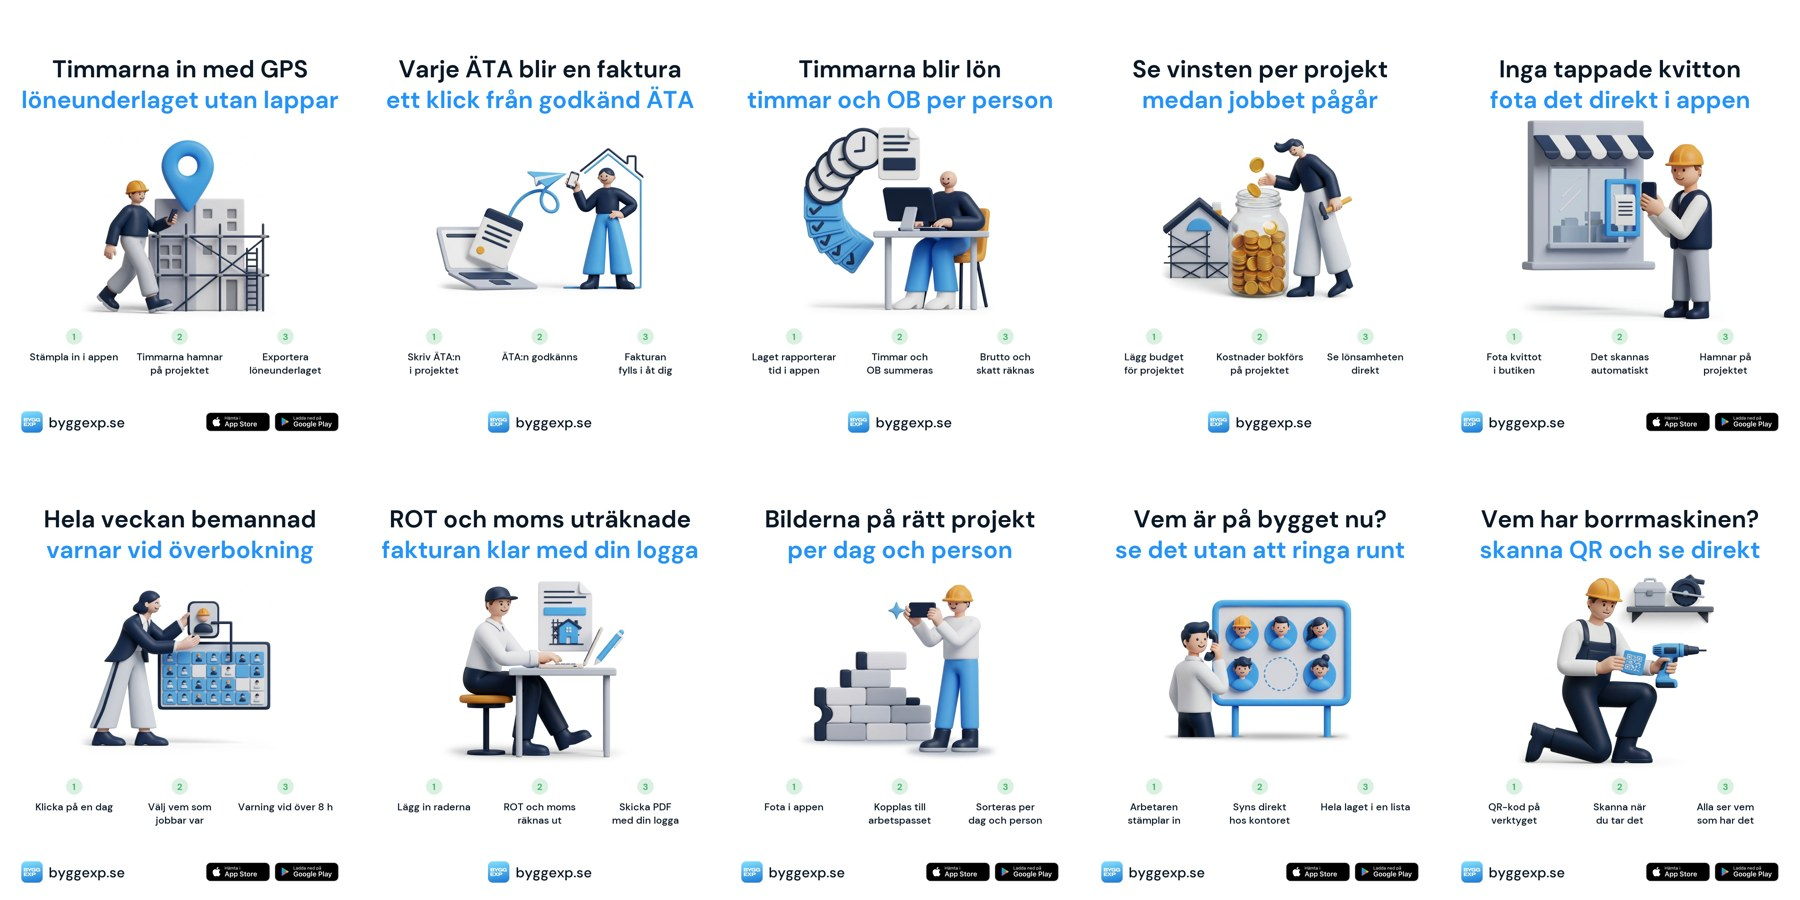
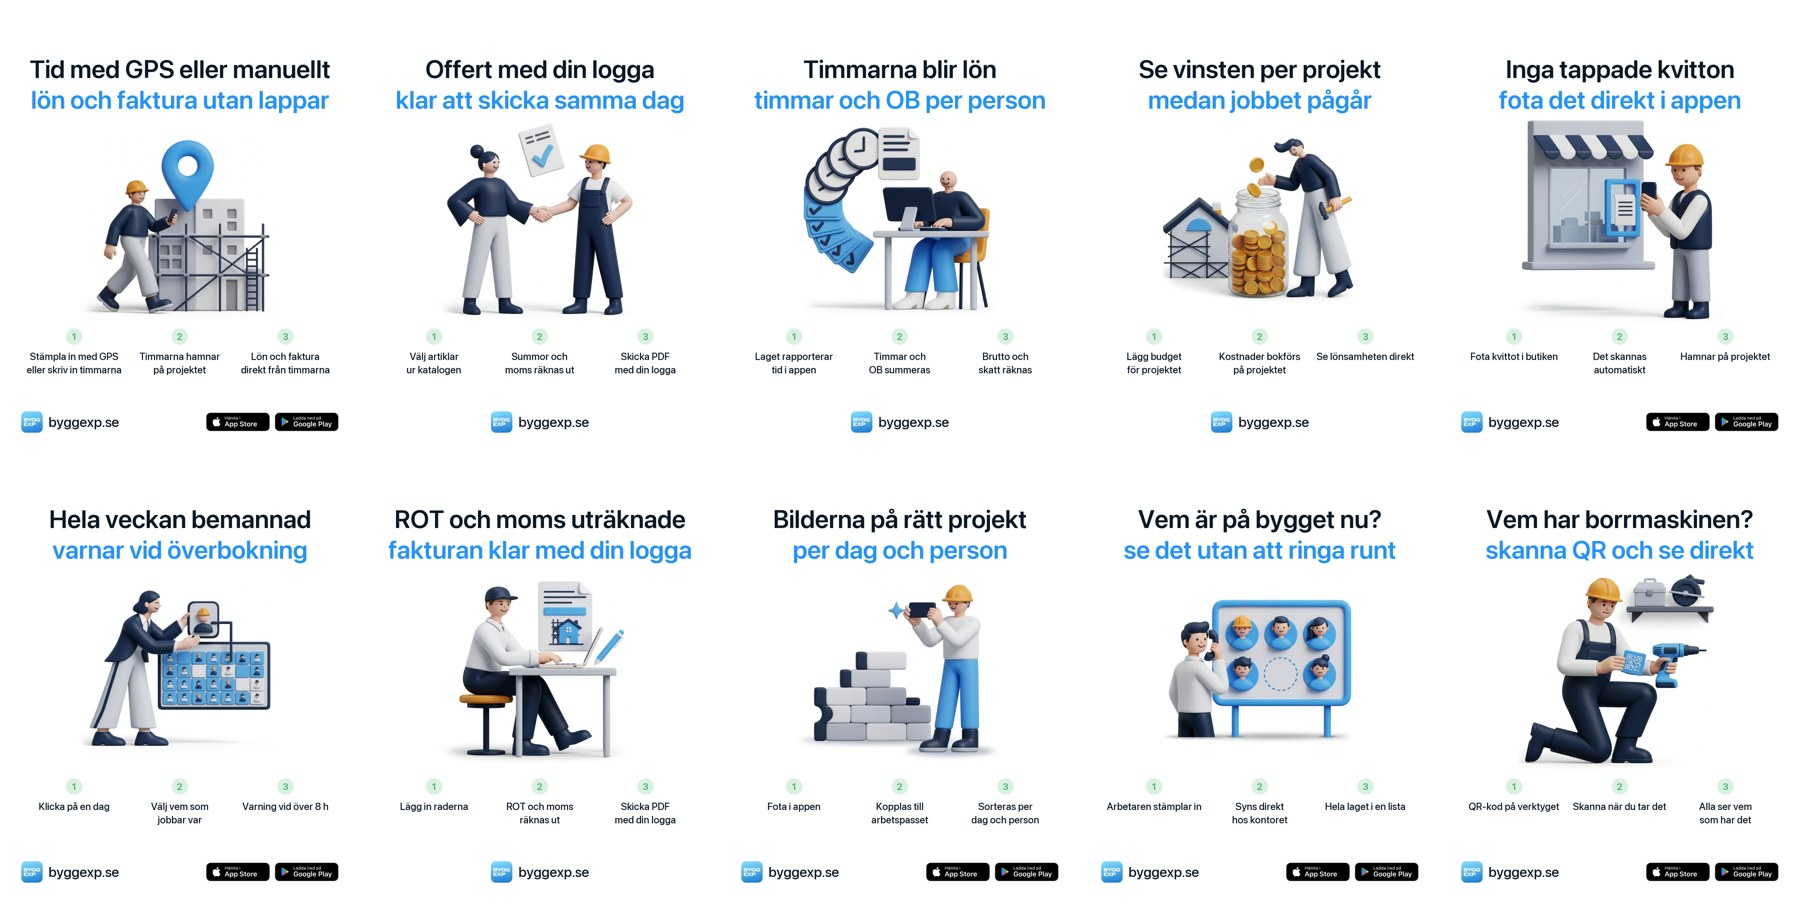
feat(smm): drop ÄTA from the series, offert post instead (S29)
Claude-Session: https://claude.ai/code/session_015ffAXEftTHPL4eNP1AivUn

diff --git a/design-assets/social/posts/make_3d.py b/design-assets/social/posts/make_3d.py
@@ -20,8 +20,8 @@ NAVY, BLUE, GREY = (10, 24, 40), (35, 148, 255), (91, 117, 145)
 POSTS = [  # first 10, benefit first; no price on the picture (S26)
     ("01-tid", ("Tid med GPS eller manuellt", "lön och faktura utan lappar"), "tid-1.png",
      ("Stämpla in med GPS eller skriv in timmarna", "Timmarna hamnar på projektet", "Lön och faktura direkt från timmarna"), True),
-    ("02-ata", ("Varje ÄTA blir en faktura", "ett klick från godkänd ÄTA"), "fakturor-3.png",
-     ("Skriv ÄTA:n i projektet", "ÄTA:n godkänns", "Fakturan fylls i åt dig"), False),
+    ("02-offert", ("Offert med din logga", "klar att skicka samma dag"), "offerter-3.png",
+     ("Välj artiklar ur katalogen", "Summor och moms räknas ut", "Skicka PDF med din logga"), False),
     ("03-lon", ("Timmarna blir lön", "timmar och OB per person"), "ekonomi-2.png",
      ("Laget rapporterar tid i appen", "Timmar och OB summeras", "Brutto och skatt räknas"), False),
     ("04-ekonomi", ("Se vinsten per projekt", "medan jobbet pågår"), "ekonomi-1-gold.png",

diff --git a/design-assets/social/DESIGN-SYSTEM-SMM.md b/design-assets/social/DESIGN-SYSTEM-SMM.md
@@ -80,6 +80,8 @@
 
 **S28 · 2026-10-31 · Шрифт картинок = то, что реально видно на сайте: SF Pro.** Сайт в CSS пишет `"DM Sans", -apple-system…`, но DM Sans нигде не подгружает (нет @font-face / Google Fonts), поэтому посетитель видит системный SF Pro. В картинках — `/System/Library/Fonts/SFNS.ttf` (вариативный): заголовки 600, шаги 500, текст 400; крупный текст — оптический размер Display. DM Sans в картинках не использовать. Сайт не трогаем (сделан по Figma, эталон): материалы подстраиваются под сайт, а не наоборот. Код: `font()` в `posts/make_3d.py`. Почему: владелец: «шрифты точно с сайта?» — были не с сайта.
 
+**S29 · 2026-10-31 · ÄTA не показываем нигде.** Владелец: «ÄTA забудь вообще». Ни в постах, ни в каруселях, ни в текстах, ни в будущих сериях. В «первых 10» пост ÄTA заменён на «Offert med din logga». Уже опубликованные старые посты не трогаем.
+
 **S7 · Текст.** Шведский, без кириллицы; только факты из `docs/seo/product-facts-verified.md`; ссылки с UTM.
 
 ## Чек-лист перед показом

diff --git a/design-assets/social/posts/first10-3d.md b/design-assets/social/posts/first10-3d.md
@@ -25,19 +25,19 @@ https://byggexp.se/sv?utm_source=linkedin&utm_medium=social&utm_campaign=first10
 
 ---
 
-## 02 · Varje ÄTA blir en faktura
+## 02 · Offert med din logga
 
 FB:
-Varje ÄTA blir en faktura – ett klick från godkänd ÄTA.
+Offert med din logga – klar att skicka samma dag.
 
-När ÄTA:n är godkänd fylls fakturan i med samma rader och belopp. Inget extrajobb glöms bort.
+Välj artiklar ur din katalog, summor och moms räknas ut, och kunden får en snygg PDF med din logga.
 
-14 dagar gratis 👉 https://byggexp.se/sv?utm_source=facebook&utm_medium=social&utm_campaign=first10
+14 dagar gratis, ingen bindningstid 👉 https://byggexp.se/sv?utm_source=facebook&utm_medium=social&utm_campaign=first10
 
 LinkedIn:
-Varje ÄTA blir en faktura.
+Offert med din logotyp – klar att skicka samma dag.
 
-En godkänd ÄTA blir en förifylld faktura med ett klick – samma rader, samma belopp. Extrajobben landar på fakturan i stället för att glömmas bort.
+Artiklar ur företagets katalog (art.nr), summor och moms räknas ut, och offerten går som PDF med er logotyp.
 
 14 dagar gratis, ingen bindningstid.
 https://byggexp.se/sv?utm_source=linkedin&utm_medium=social&utm_campaign=first10
